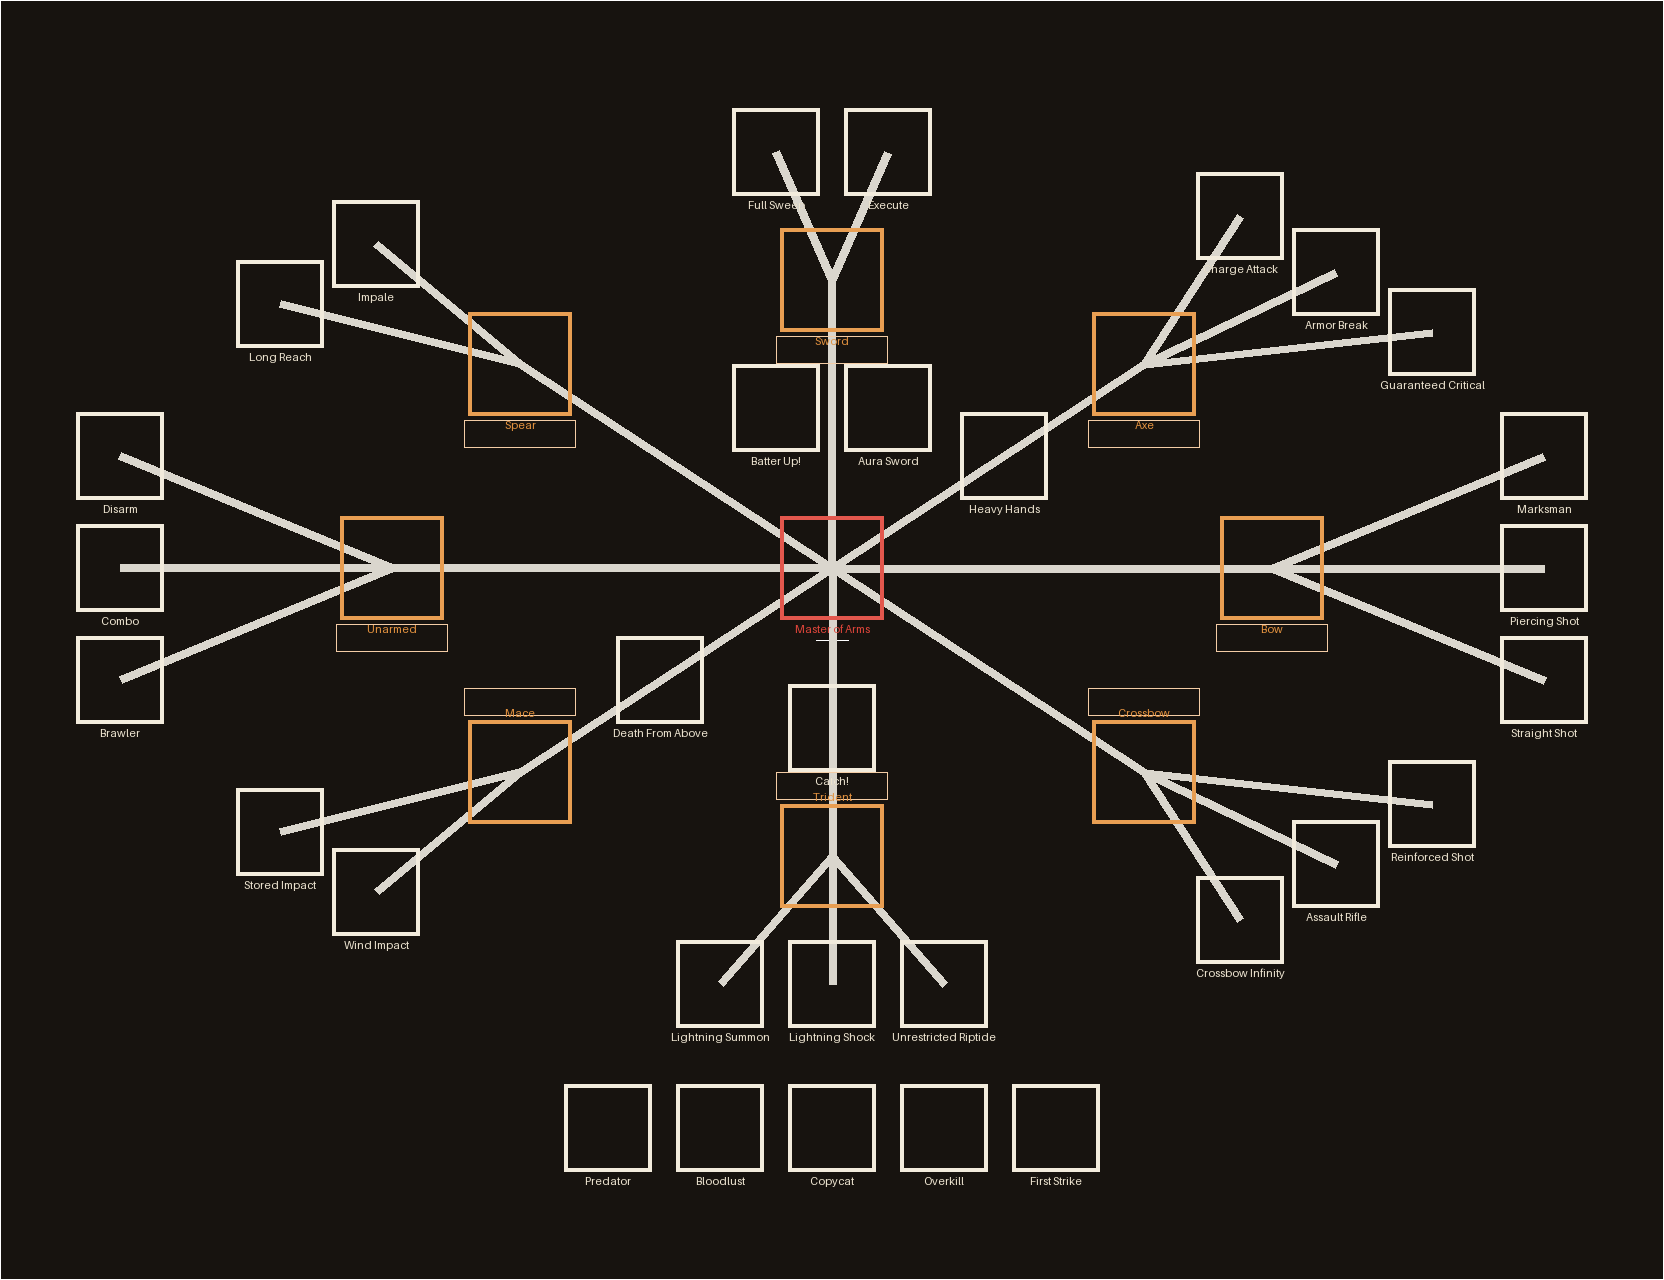
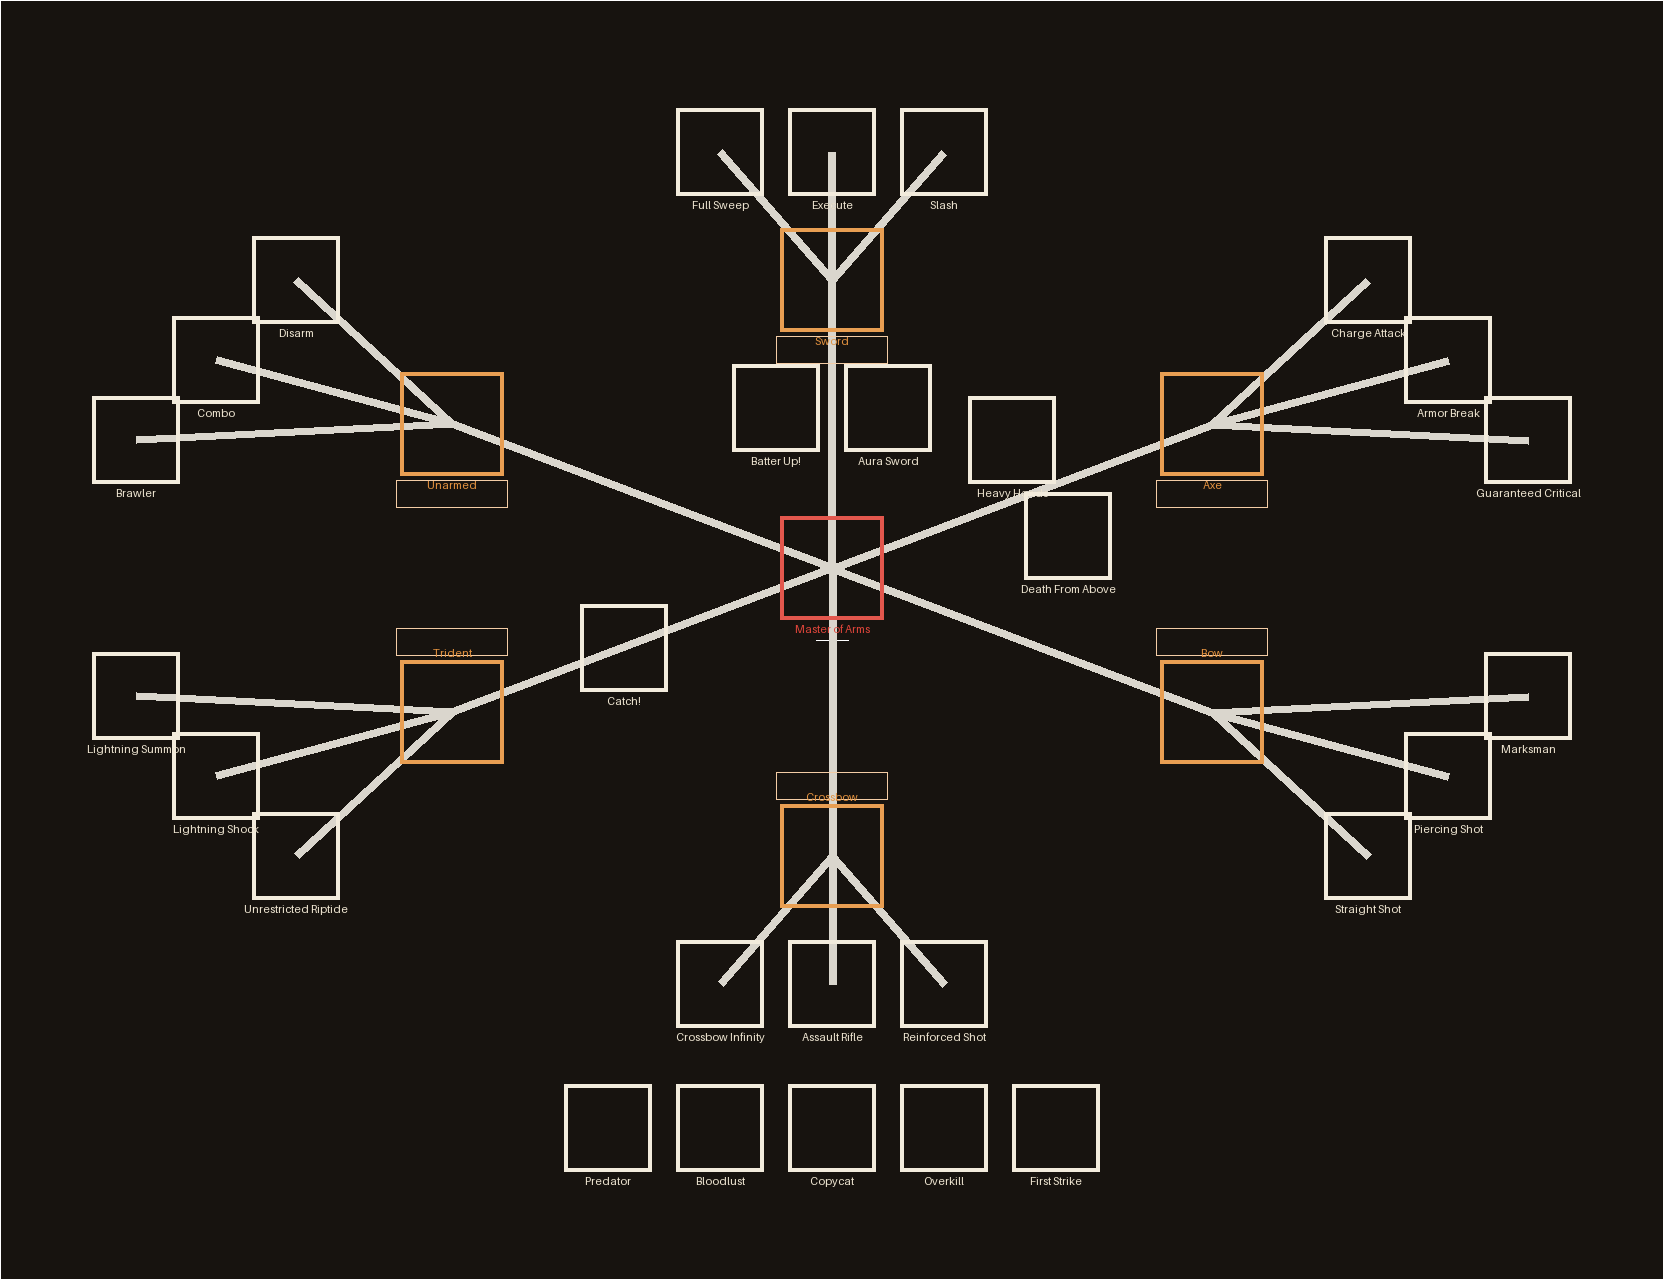
Forge 1.20.1: Slash replaces the mace and spear Majors
1.20.1 has no maces or spears: Wind Impact, Stored Impact and Long Reach are gone from this build,
and Impale becomes Slash, a sword Major (fully charged hits and their sweeps can Bleed). Six weapon
trees of three Majors each; Death From Above is gated on the axe tree. Hub art guides regenerated.

Claude-Session: https://claude.ai/code/session_019KUyyeorB6eMjm1burzZYs

diff --git a/src/main/java/com/freshorangeslices/bloomlevelup/config/BloomConfig.java b/src/main/java/com/freshorangeslices/bloomlevelup/config/BloomConfig.java
@@ -150,25 +150,15 @@ public final class BloomConfig {
 	/** Lightning Shock: sparks that leave the struck target at once, and how many enemies each one jumps through. */
 	public int lightningShockSparks = 3;
 	public int lightningShockJumps = 3;
-	public double storedImpactRatio = 0.5;
-	public double storedImpactCap = 20.0;
-	/** Stored Impact: one storage window opened by the first stored fall; later falls add to it until it closes. */
-	public int storedImpactWindowTicks = 6000;
-	public double windImpactRadius = 3.5;
-	/** Wind Impact: right-click the ground with a mace for a wind-charge burst; cooldown between bursts. */
-	public int windImpactCooldownTicks = 20;
-	/** Wind Impact: mace durability each burst costs. */
-	public int windImpactDurabilityCost = 3;
 	/** Fitting Armor / Medium: how much of an axe's shield-disable time is left (0.3 = an axe's 5 s becomes 1.5 s). */
 	public double mediumShieldDisableRatio = 0.3;
-	public double windImpactStrength = 1.2;
 	public double brawlerDamage = 6.0;
 	public double comboPerHit = 0.25;
 	public double comboCap = 5.0;
 	public int comboResetTicks = 60;
 	public double disarmChance = 0.30;
-	public double longReachBlocks = 2.0;
-	public double impaleChance = 0.50;
+	/** Slash (swords): chance a fully charged hit (or its sweep) makes the target Bleed. */
+	public double slashChance = 0.50;
 	public int bleedTicks = 60;
 	public int auraSwordHits = 5;
 	public double auraSwordRadius = 4.0;
@@ -249,7 +239,6 @@ public final class BloomConfig {
 	public BloomConfig migrate() {
 		if (configVersion < 1) {
 			// Playtest round 1 (2026-10-19).
-			impaleChance = moved(impaleChance, 0.40, 0.50);
 			auraSwordRadius = moved(auraSwordRadius, 3.5, 3.0);
 			auraSwordPulseGapTicks = auraSwordPulseGapTicks == 10 ? 4 : auraSwordPulseGapTicks;
 			growthAuraChance = moved(growthAuraChance, 0.15, 0.35);
@@ -360,21 +349,13 @@ public final class BloomConfig {
 		lightningShockBounceTicks = Math.max(0, Math.min(100, lightningShockBounceTicks));
 		lightningShockSparks = Math.max(1, Math.min(8, lightningShockSparks));
 		lightningShockJumps = Math.max(1, Math.min(8, lightningShockJumps));
-		storedImpactRatio = Math.max(0.0, storedImpactRatio);
-		storedImpactCap = Math.max(0.0, storedImpactCap);
-		storedImpactWindowTicks = Math.max(1, storedImpactWindowTicks);
-		windImpactRadius = Math.max(0.5, Math.min(16.0, windImpactRadius));
-		windImpactCooldownTicks = Math.max(0, windImpactCooldownTicks);
-		windImpactDurabilityCost = Math.max(0, windImpactDurabilityCost);
 		mediumShieldDisableRatio = Math.min(1.0, Math.max(0.0, mediumShieldDisableRatio));
-		windImpactStrength = Math.max(0.0, windImpactStrength);
 		brawlerDamage = Math.max(0.0, brawlerDamage);
 		comboPerHit = Math.max(0.0, comboPerHit);
 		comboCap = Math.max(0.0, comboCap);
 		comboResetTicks = Math.max(1, comboResetTicks);
 		disarmChance = clamp01(disarmChance);
-		longReachBlocks = Math.max(0.0, longReachBlocks);
-		impaleChance = clamp01(impaleChance);
+		slashChance = clamp01(slashChance);
 		bleedTicks = Math.max(20, bleedTicks);
 		auraSwordHits = Math.max(1, auraSwordHits);
 		auraSwordRadius = Math.max(1.0, Math.min(16.0, auraSwordRadius));

diff --git a/src/main/java/com/freshorangeslices/bloomlevelup/skill/combat/CombatIds.java b/src/main/java/com/freshorangeslices/bloomlevelup/skill/combat/CombatIds.java
@@ -13,6 +13,8 @@ public final class CombatIds {
 	// Sword
 	public static final String FULL_SWEEP = BloomLevelUp.key("combat/full_sweep");
 	public static final String EXECUTE = BloomLevelUp.key("combat/execute");
+	/** Forge 1.20.1 build: the spear's Impale moved to swords (no spears or maces in 1.20.1). */
+	public static final String SLASH = BloomLevelUp.key("combat/slash");
 	// Axe
 	public static final String CHARGE_ATTACK = BloomLevelUp.key("combat/charge_attack");
 	public static final String ARMOR_BREAK = BloomLevelUp.key("combat/armor_break");
@@ -28,16 +30,10 @@ public final class CombatIds {
 	public static final String UNRESTRICTED_RIPTIDE = BloomLevelUp.key("combat/unrestricted_riptide");
 	public static final String LIGHTNING_SHOCK = BloomLevelUp.key("combat/lightning_shock");
 	public static final String LIGHTNING_SUMMON = BloomLevelUp.key("combat/lightning_summon");
-	// Mace
-	public static final String WIND_IMPACT = BloomLevelUp.key("combat/wind_impact");
-	public static final String STORED_IMPACT = BloomLevelUp.key("combat/stored_impact");
 	// Unarmed
 	public static final String BRAWLER = BloomLevelUp.key("combat/brawler");
 	public static final String COMBO = BloomLevelUp.key("combat/combo");
 	public static final String DISARM = BloomLevelUp.key("combat/disarm");
-	// Spear
-	public static final String LONG_REACH = BloomLevelUp.key("combat/long_reach");
-	public static final String IMPALE = BloomLevelUp.key("combat/impale");
 	// Universal
 	public static final String BATTER_UP = BloomLevelUp.key("combat/batter_up");
 	public static final String AURA_SWORD = BloomLevelUp.key("combat/aura_sword");
@@ -52,14 +48,6 @@ public final class CombatIds {
 	public static final String COPYCAT = BloomLevelUp.key("combat/copycat");
 	/** Lets the weapon-skill Majors that clash be owned together, and combines them (Charged Throw, Storm Call, ...). */
 	public static final String MASTER_OF_ARMS = BloomLevelUp.key("combat/master_of_arms");
-
-	// Persistent counters
-	/** Stored Impact: the stored bonus, in hundredths of a damage point. */
-	public static final String STORED_IMPACT_HUNDREDTHS = STORED_IMPACT + "#stored";
-	/** Stored Impact: game time when it can store again (the 5-minute cooldown). */
-	public static final String STORED_IMPACT_READY_AT = STORED_IMPACT + "#ready_at";
-	/** Game time the current Stored Impact window closes (0 = no window open). */
-	public static final String STORED_IMPACT_EXPIRES_AT = STORED_IMPACT + "#expires_at";
 
 	private CombatIds() {
 	}

diff --git a/docs/DECISIONS.md b/docs/DECISIONS.md
@@ -481,6 +481,12 @@ Better Combat is optional: Bloom compiles against it but never bundles it, and e
 |---|---|---|
 | Versioning | CI builds are versioned `0.1.0+build.<run number>` (the jar name too); local builds `0.1.0+local`. The version shows in the hub's bottom-right corner, Mod Menu, the server log and the run's jar-check notice | `build.gradle` |
 
+## Forge 1.20.1 build (branch `forge-1.20.1`)
+
+| Topic | Decision | Where |
+|---|---|---|
+| No maces or spears in 1.20.1 | Wind Impact, Stored Impact (mace) and Long Reach (spear) are left out of this build. Impale becomes **Slash**, a sword Major: fully charged sword hits, and what their sweep catches, can Bleed (`slashChance`, 50%). Swords now have three Majors like every other weapon, so the Combat tab is six weapon trees of three. Death From Above's gate moves from the mace tree to the axe tree. The Master of Arms combos that need a mace go with them (from FreshOrangeSlices, 2026-10-25) | `data/bloomlevelup/bloom/major/combat/`, `CombatIds` |
+
 ## Still open (need a design call)
 
 - Nothing blocking.
